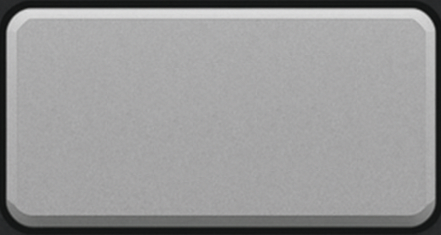
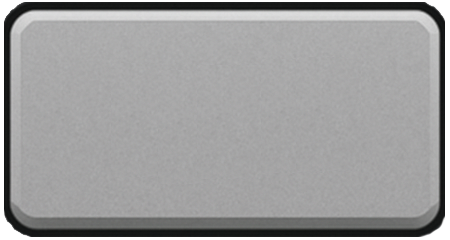
feat: improved trade menu interface
Removed the numeric input for now to reduce window cluter, adjusted the font size, and realigned the buy and sell buttons. Also resolved a bug in the save/load mechanics

Changed region(s): [[0.0, 0.0, 1.0, 1.0]]

diff --git a/Screens/TradeScreen.cs b/Screens/TradeScreen.cs
@@ -26,7 +26,6 @@ namespace StarSmuggler.Screens
         private Terminal terminalWindow;
         private List<NumericInput> numericInputs;
         private Port currentPort;
-        // private CurrentPrices currentPrices;
 
 
         private int spacingY = 80;
@@ -43,9 +42,9 @@ namespace StarSmuggler.Screens
         {
             Game1.AudioManager.LoadSfx("click");
             buttonFont = content.Load<SpriteFont>("Fonts/Terminal");
-            textFont = content.Load<SpriteFont>("Fonts/Terminal16");
+            textFont = content.Load<SpriteFont>("Fonts/Terminal18");
             buttonTexture = content.Load<Texture2D>("UI/button");
-            terminalButtonTexture = content.Load<Texture2D>("UI/terminalButton");
+            terminalButtonTexture = content.Load<Texture2D>("UI/terminalButtonNew");
             terminalTexture = content.Load<Texture2D>("UI/terminalEmptyNew"); 
 
             currentPort = GameManager.Instance.CurrentPort;
@@ -76,8 +75,8 @@ namespace StarSmuggler.Screens
                 var inputRect = new Rectangle(500, y-60, 80, 40);
                 numericInputs.Add(new NumericInput(inputRect, buttonFont, buttonTexture));
             }
-            backButton = new BackButton(buttonFont, terminalButtonTexture, 963, 671, 100, 51);
-            doneButton = new Button(new Rectangle(1078, 670, 100, 51), "Done", buttonFont, terminalButtonTexture, Color.White);
+            backButton = new BackButton(buttonFont, terminalButtonTexture, 960, 671, 100, 51);
+            doneButton = new Button(new Rectangle(1075, 670, 100, 51), "Done", buttonFont, terminalButtonTexture, Color.White);
         }
 
         public void Update(GameTime gameTime)
@@ -143,13 +142,13 @@ namespace StarSmuggler.Screens
 
             // Offset all items to be relative to the terminal window's bounds + padding
             int terminalX = terminalWindow.Bounds.X + 100; // Padding from the left edge
-            int terminalY = terminalWindow.Bounds.Y + 80; // Padding from the top edge
+            int terminalY = terminalWindow.Bounds.Y + 110; // Padding from the top edge
 
             // Draw the player's credits inside the terminal
             spriteBatch.DrawString(
                 buttonFont, 
                 $"Credits: {GameManager.Instance.Player.Credits}", 
-                new Vector2(terminalX + 150, terminalY + 645), // Offset relative to the terminal
+                new Vector2(terminalX + 160, terminalY + 610), // Offset relative to the terminal
                 Color.White
             );
 
@@ -164,19 +163,19 @@ namespace StarSmuggler.Screens
                 int qty = numericInputs[i].Value;
 
                 // Draw the item's information
-                // var price = GameManager.Instance.CurrentPort.CurrentPrices[item];
                 var price = currentPort.Prices[item.Id];
                 string line = $"{item.Name} - ${price} | Owned: {ownedQty}";
-                spriteBatch.DrawString(textFont, line, new Vector2(terminalX + 20, y), Color.LightGray);
+                var itemX = terminalX + 20; // Offset X relative to the terminal
+                spriteBatch.DrawString(textFont, line, new Vector2(itemX, y), Color.LightGray);
 
-                // Draw numeric input, buy button, and sell button relative to the terminal
-                numericInputs[i].Bounds = new Rectangle(terminalX + 26, y+35, 80, 40); // Selected value
-                numericInputs[i].Draw(spriteBatch);
+                // // Draw numeric input, buy button, and sell button relative to the terminal
+                // numericInputs[i].Bounds = new Rectangle(terminalX + 26, y+35, 80, 40); // Selected value
+                // numericInputs[i].Draw(spriteBatch);
 
-                buyButtons[i].Bounds = new Rectangle(terminalX + 160, y+35, 80, 40); // Adjust position
+                buyButtons[i].Bounds = new Rectangle(itemX + 460, y, 80, 40); // Adjust position
                 buyButtons[i].Draw(spriteBatch);
 
-                sellButtons[i].Bounds = new Rectangle(terminalX + 260, y+35, 80, 40); // Adjust position
+                sellButtons[i].Bounds = new Rectangle(itemX + 560, y, 80, 40); // Adjust position
                 sellButtons[i].Draw(spriteBatch);
             }
             // Draw the back button

diff --git a/GameManager.cs b/GameManager.cs
@@ -74,6 +74,7 @@ namespace StarSmuggler
                 if (port == null) port = PortsDatabase.GetRandomInnerPort();
 
                 Player.CurrentPort = port;
+                Player.CurrentPrices = data.Prices;
 
                 foreach (var pair in data.CargoHold)
                 {
@@ -147,7 +148,6 @@ namespace StarSmuggler
             CurrentState = newState;
             if (Game1.ScreenManagerRef != null)
                 Game1.ScreenManagerRef.SetActive(newState);
-                // SaveLoadManager.SaveGame(Player);
         }
 
         private void TriggerRandomEvent()
@@ -155,9 +155,7 @@ namespace StarSmuggler
             var rng = new Random();
             rng.Next(1, 100);
             if (rng.Next(1, 100) > 75) // 25% chance to trigger an event
-            {
                 return; // No event triggered
-            }
             lastEvent = EventDatabase.AllEvents[rng.Next(EventDatabase.AllEvents.Count)];
             lastEvent.Execute(Player, Player.CurrentPort);
         }
@@ -189,9 +187,7 @@ namespace StarSmuggler
                 foreach (var port in ports)
                 {
                     if (!CurrentPrices.ContainsKey(port.Id))
-                    {
                         CurrentPrices[port.Id] = new Dictionary<string, int>();
-                    }
                     foreach (var item in items)
                     {
                         float variance = 0.3f;

diff --git a/SaveLoadManager.cs b/SaveLoadManager.cs
@@ -21,7 +21,8 @@ namespace StarSmuggler
                 CurrentPortName = player.CurrentPort.Name,
                 Credits = player.Credits,
                 CargoLimit = player.CargoLimit,
-                CargoHold = new Dictionary<string, int>()
+                CargoHold = new Dictionary<string, int>(),
+                Prices = player.CurrentPrices
             };
 
             foreach (var item in player.CargoHold)

diff --git a/Screens/GameOverScreen.cs b/Screens/GameOverScreen.cs
@@ -42,7 +42,7 @@ namespace StarSmuggler.Screens
             }
 
             spriteBatch.DrawString(font, "Game Over", new Vector2(550, 300), Color.Red);
-            spriteBatch.DrawString(font, "Press Enter to start a new game", new Vector2(430, 360), Color.White);
+            spriteBatch.DrawString(font, "Press Escape for the main menu", new Vector2(430, 360), Color.White);
             spriteBatch.End();
         }
 

diff --git a/SaveData.cs b/SaveData.cs
@@ -5,6 +5,7 @@ namespace StarSmuggler
     public class SaveData
     {
         public string CurrentPortName { get; set; }
+        public Dictionary<string, Dictionary<string, int>> Prices { get; set; } = new();
         public int Credits { get; set; }
         public int CargoLimit { get; set; }
         public Dictionary<string, int> CargoHold { get; set; } = new();
